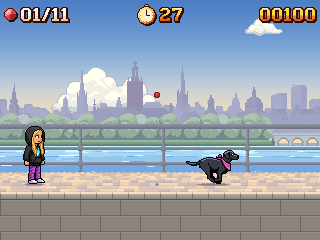
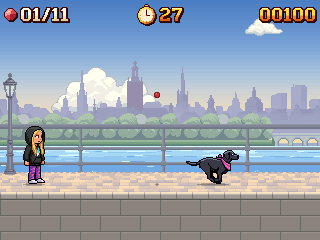
bonus scenes round 3: Downtown square floor under the back grade, lamp posts and a bench behind the line, City Park tufts off the grid
Review 83bf364: Downtown's square floor drawn unfaded under the back grade so its
kerb and setts show; a lamp post at the far left in Downtown and River Walk, the
bench on City Park's back lawn (faded as back decoration); City Park's front tufts
jittered 0-3 px with one in five dropped. town_door tried on the far wall and not
used: at true scale it stands 2.5 storeys over the backdrop (mockup in the review
folder). Bonus tests 23/23, check_flow 125/125, PEPPER UNCHANGED.

Claude-Session: https://claude.ai/code/session_01XkeHCjP6hqrE6SQGDYHeYV

Changed region(s): [[0.0, 0.3208, 0.0625, 0.5542], [0.0, 0.5833, 0.0625, 0.7292]]

diff --git a/docs/review/07nov/bonusscene/README.md b/docs/review/07nov/bonusscene/README.md
@@ -83,6 +83,35 @@ ground kinds. The front edges here are drawn by rule in each level's own colours
    47/43/47). The street's setts and kerb top keep the level's grade. Rooftops falls back to Downtown, so it gets
    the same fix. Before/after: `round2_downtown_before_after_3x.png`, `round2_rooftops_before_after_3x.png`.
 
+## Round 3 (review on review/07nov-bonusscene, 83bf364, art/gen/reviews/bonus_scenes.md)
+
+The review passed River Walk, City Park, Söder and Night, and failed Downtown and Rooftops on the join: the houses
+ended on a straight line at y 160 over a flat pale 10 px stripe (the square's floor under the mid grade, its setts
+smothered).
+
+- **(a) Downtown's square floor under the back grade, done.** `town_square_floor.png` is now drawn unfaded under
+  the back layer's grade (the ground plane a few metres behind Pepper): its kerb and setts show, so the band reads as
+  the square's floor. `round3_downtown_join_before_after_4x.png` (and `_grey_4x`): round 2 above, now below.
+- **(b) town_door on the far wall: tried, not used.** The approved door is a true-scale play-line piece: a
+  140 x 432 opaque brick panel, the door with its arch 60 x 110 px (2.1 m at 46 px/m). The backdrop is at about
+  13 px/m (its windows 6 x 8 px, a storey about 39 px), so the door stands 2.5 storeys tall over the houses
+  (`round3_downtown_door_trial_3x.png`, a mockup pasted on the frame, which is why it covers Pepper there). Scaling
+  it down is not allowed (grid rule), and the scale rule says big things go on a slower layer, not the other way. No
+  approved door exists at the backdrop's scale. Options, each needs a yes: a doorway built once by rule in the
+  backdrop's own colours at its scale and stamped on two or three ground floors (new art, 0 credits), or wait for
+  the Downtown redesign's low rooftop rows and take their ground floor.
+- **(c) A lamp post at the far left in Downtown, done.** The levels' lamp, faded as their back decoration, unlit,
+  foot on y 172, with its shadow as `stage.lua` draws it.
+- **(d) One approved prop behind the line in River Walk and City Park, done.** River Walk: the lamp post at the far
+  left, foot on y 174. City Park: the bench at x 250 on the back lawn, feet on y 172, faded to the back haze like the
+  back decoration (in River Walk it is an obstacle with its own outline; here Pepper cannot reach it, nothing has a
+  collision box). `round3_riverwalk_before_after_2x.png`, `round3_citypark_before_after_2x.png`,
+  `round3_downtown_before_after_2x.png` (round 2 left, now right).
+- **(e) City Park's front tufts, done.** Each moved 0-3 px off the 8 px grid by the file's rng, one in five left out:
+  no dot screen. `round3_citypark_tufts_before_after_3x.png`.
+
+Nothing is on the play floor. Throws, catch rules and timings unchanged.
+
 ## Readability (greyscale, 2x)
 
 Background luma where the items fly and Pepper runs (y 40-184, Mia and Pepper masked, READY frame): River Walk p5
@@ -98,17 +127,18 @@ taken from the 2x window as 1x by one pixel per 2x2 block):
 
 - `N_<level>_<scene>_1x.png`, `_3x.png` and `_grey_2x.png` for N = 1-6
 - `all_rounds_1x.png`: the six rounds in order (rows of 3, colour over greyscale)
-- `round2_*_3x.png`: this round's fixes and the City Park options
+- `round2_*_3x.png`: round 2's fixes and the City Park options
+- `round3_*.png`: round 3's fixes and the door trial
 
 ## Checks (final commit)
 
 - `love riverwalk --bonus` and `--level X --bonus` for riverwalk, citypark_tall, downtown_tall, rooftops, soder and
   night: no Lua errors; every level's full round played by the autopilot (`--auto`) with the same results as before
   the change (A 14 of 15, B 13 of 15, C 13 of 14).
-- Bonus tests (`love riverwalk --bonus --physics`): 23 of 23 passed (round 2 too).
-- `tools/check_flow.sh`: 125 of 125 passed (round 2 too).
-- `tools/check_pepper.sh`: PEPPER UNCHANGED, 3908 steps identical (round 2 too).
-- Round 2: every level's round played again by the autopilot, results unchanged.
+- Bonus tests (`love riverwalk --bonus --physics`): 23 of 23 passed (rounds 2 and 3 too).
+- `tools/check_flow.sh`: 125 of 125 passed (rounds 2 and 3 too).
+- `tools/check_pepper.sh`: PEPPER UNCHANGED, 3908 steps identical (rounds 2 and 3 too).
+- Rounds 2 and 3: every level's round played again by the autopilot, results unchanged.
 - River Walk physics (`--level riverwalk --physics`, as `Sc.paintQuay` got one option): 55 of 55 passed.
 
 Each run with its own `XDG_DATA_HOME=$(mktemp -d)`, under `xvfb-run -a`, `SDL_AUDIODRIVER=dummy`.
@@ -128,3 +158,5 @@ Each run with its own `XDG_DATA_HOME=$(mktemp -d)`, under `xvfb-run -a`, `SDL_AU
 2. Söder Hill's round is on the City Park lawn. Would you rather have Downtown's square or the River Walk quay there?
 3. Downtown's quay wall is granite grey in the bonus but still violet in the level itself (the same grade). Should
    the level get the same fix?
+4. Downtown's far houses have no ground floor. A doorway built by rule at their scale (new art, 0 credits), or wait
+   for the redesign's rows?
